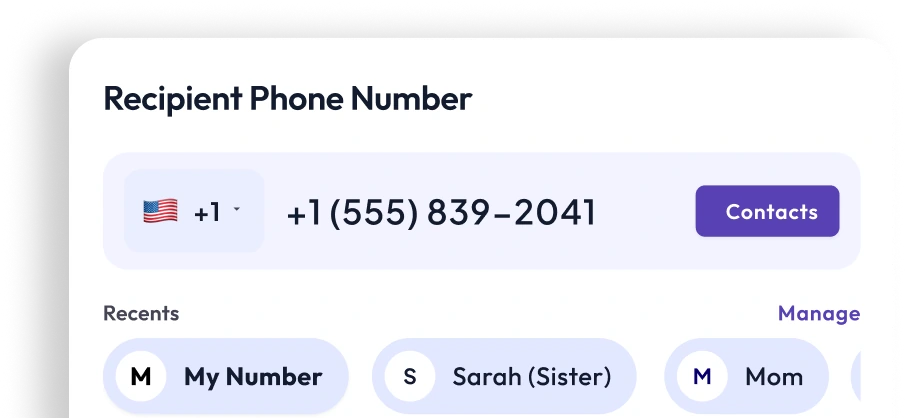
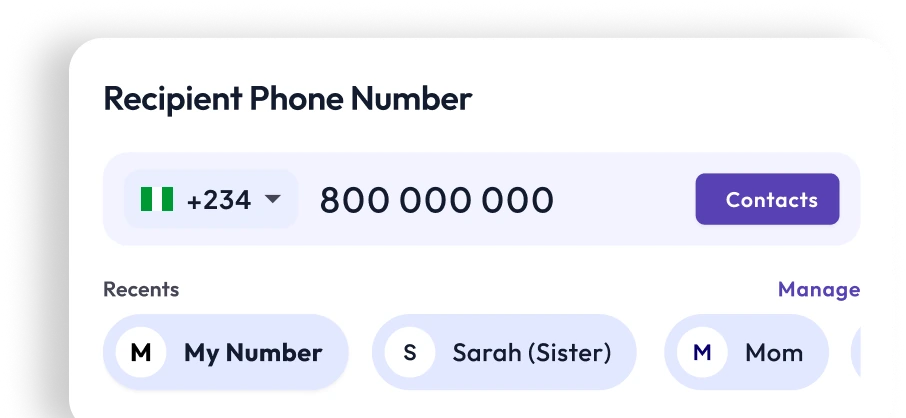
Personal > More corrections: electricity card and bolt, +234 phone inputs, headphones, payment made and wallet balance cards, data tiers (compressed WebP, positions from the corrected designs)

diff --git a/apps/marketing-web/bill-payment.html b/apps/marketing-web/bill-payment.html
@@ -227,9 +227,9 @@
         </header>
         <!-- Artwork slots (.tile__art) are reserved: add the images later without any layout shift -->
         <ul class="tiles tiles--cat">
-          <li class="pcard tile"><div class="pcard__text"><h3>Electricity</h3><p>Explore available electricity bill payment options.</p><a class="pcard__link" href="#">Explore feature <svg class="icon" aria-hidden="true"><use href="#i-arrow-long"/></svg></a></div><div class="tile__art" aria-hidden="true"><img src="assets/Bills/bulb.webp" alt="" class="b-bulb" width="900" height="836" loading="lazy" decoding="async"></div></li>
+          <li class="pcard tile"><div class="pcard__text"><h3>Electricity</h3><p>Explore available electricity bill payment options.</p><a class="pcard__link" href="#">Explore feature <svg class="icon" aria-hidden="true"><use href="#i-arrow-long"/></svg></a></div><div class="tile__art" aria-hidden="true"><img src="assets/Bills/electricity-card.webp" alt="" class="b-elec" width="1200" height="611" loading="lazy" decoding="async"><img src="assets/Bills/bolt.webp" alt="" class="b-bolt" width="338" height="337" loading="lazy" decoding="async"></div></li>
           <li class="pcard tile"><div class="pcard__text"><h3>TV &amp; Entertainment</h3><p><span class="ln">Find supported television and entertainment</span> <span class="ln">payment services.</span></p><a class="pcard__link" href="#">Explore feature <svg class="icon" aria-hidden="true"><use href="#i-arrow-long"/></svg></a></div><div class="tile__art" aria-hidden="true"><img src="assets/Bills/arch.webp" alt="" class="b-arch" width="800" height="410" loading="lazy" decoding="async"><img src="assets/Bills/couple.webp" alt="" class="b-couple" width="940" height="557" loading="lazy" decoding="async"><img src="assets/Bills/cable-success.webp" alt="" class="b-cable" width="765" height="281" loading="lazy" decoding="async"></div></li>
-          <li class="pcard tile"><div class="pcard__text"><h3>Internet &amp; Data</h3><p>Explore available internet and data payment options.</p><a class="pcard__link" href="#">Explore feature <svg class="icon" aria-hidden="true"><use href="#i-arrow-long"/></svg></a></div><div class="tile__art" aria-hidden="true"><img src="assets/Bills/man.webp" alt="" class="b-man" width="800" height="478" loading="lazy" decoding="async"><img src="assets/Bills/phone-input.webp" alt="" class="b-phone" width="906" height="278" loading="lazy" decoding="async"><img src="assets/Bills/data-tiers.webp" alt="" class="b-data" width="645" height="626" loading="lazy" decoding="async"></div></li>
+          <li class="pcard tile"><div class="pcard__text"><h3>Internet &amp; Data</h3><p>Explore available internet and data payment options.</p><a class="pcard__link" href="#">Explore feature <svg class="icon" aria-hidden="true"><use href="#i-arrow-long"/></svg></a></div><div class="tile__art" aria-hidden="true"><img src="assets/Bills/man.webp" alt="" class="b-man" width="800" height="478" loading="lazy" decoding="async"><img src="assets/Bills/phone-input.webp" alt="" class="b-phone" width="906" height="381" loading="lazy" decoding="async"><img src="assets/Bills/data-tiers.webp" alt="" class="b-data" width="645" height="626" loading="lazy" decoding="async"></div></li>
           <li class="pcard tile"><div class="pcard__text"><h3>Other Services</h3><p><span class="ln">Discover additional bill payment services</span> <span class="ln">available to you.</span></p><a class="pcard__link" href="#">Explore feature <svg class="icon" aria-hidden="true"><use href="#i-arrow-long"/></svg></a></div><div class="tile__art" aria-hidden="true"><img src="assets/Bills/school.webp" alt="" class="b-school" width="900" height="564" loading="lazy" decoding="async"></div></li>
         </ul>
       </div>

diff --git a/tools/pages/bill-payment.page.html b/tools/pages/bill-payment.page.html
@@ -30,7 +30,7 @@
         </header>
         <!-- Artwork slots (.tile__art) are reserved: add the images later without any layout shift -->
         <ul class="tiles tiles--cat">
-          <li class="pcard tile"><div class="pcard__text"><h3>Electricity</h3><p>Explore available electricity bill payment options.</p><a class="pcard__link" href="#">Explore feature <svg class="icon" aria-hidden="true"><use href="#i-arrow-long"/></svg></a></div><div class="tile__art" aria-hidden="true">{{img:Bills/bulb class="b-bulb"}}</div></li>
+          <li class="pcard tile"><div class="pcard__text"><h3>Electricity</h3><p>Explore available electricity bill payment options.</p><a class="pcard__link" href="#">Explore feature <svg class="icon" aria-hidden="true"><use href="#i-arrow-long"/></svg></a></div><div class="tile__art" aria-hidden="true">{{img:Bills/electricity-card class="b-elec"}}{{img:Bills/bolt class="b-bolt"}}</div></li>
           <li class="pcard tile"><div class="pcard__text"><h3>TV &amp; Entertainment</h3><p><span class="ln">Find supported television and entertainment</span> <span class="ln">payment services.</span></p><a class="pcard__link" href="#">Explore feature <svg class="icon" aria-hidden="true"><use href="#i-arrow-long"/></svg></a></div><div class="tile__art" aria-hidden="true">{{img:Bills/arch class="b-arch"}}{{img:Bills/couple class="b-couple"}}{{img:Bills/cable-success class="b-cable"}}</div></li>
           <li class="pcard tile"><div class="pcard__text"><h3>Internet &amp; Data</h3><p>Explore available internet and data payment options.</p><a class="pcard__link" href="#">Explore feature <svg class="icon" aria-hidden="true"><use href="#i-arrow-long"/></svg></a></div><div class="tile__art" aria-hidden="true">{{img:Bills/man class="b-man"}}{{img:Bills/phone-input class="b-phone"}}{{img:Bills/data-tiers class="b-data"}}</div></li>
           <li class="pcard tile"><div class="pcard__text"><h3>Other Services</h3><p><span class="ln">Discover additional bill payment services</span> <span class="ln">available to you.</span></p><a class="pcard__link" href="#">Explore feature <svg class="icon" aria-hidden="true"><use href="#i-arrow-long"/></svg></a></div><div class="tile__art" aria-hidden="true">{{img:Bills/school class="b-school"}}</div></li>

diff --git a/apps/marketing-web/pay-with-316.html b/apps/marketing-web/pay-with-316.html
@@ -247,7 +247,7 @@
             <li class="cl__item"><span class="cl__dot" aria-hidden="true"></span><div><h3>Keep track of your payments</h3><p><span class="ln">Review your transaction history and check the</span> <span class="ln">status of your payments.</span></p></div></li>
           </ul>
         </div>
-        <div class="split__media f-media bm-media"><img src="assets/Pay/man.webp" alt="" alt="A man smiling at his phone" class="f-img f-img--round" width="1200" height="954" loading="lazy" decoding="async"><img src="assets/Pay/payment-made.webp" alt="" alt="Payment made, $50.22" class="pm-made" width="904" height="491" loading="lazy" decoding="async"></div>
+        <div class="split__media f-media bm-media"><img src="assets/Pay/man.webp" alt="" alt="A man smiling at his phone" class="f-img f-img--round" width="1200" height="954" loading="lazy" decoding="async"><img src="assets/Pay/wallet-balance.webp" alt="" class="pm-wallet" width="555" height="292" loading="lazy" decoding="async"><img src="assets/Pay/payment-made.webp" alt="" alt="Payment made, $50.22" class="pm-made" width="463" height="251" loading="lazy" decoding="async"></div>
       </div>
     </section>
 

diff --git a/apps/marketing-web/features.css b/apps/marketing-web/features.css
@@ -454,3 +454,17 @@
 .b-water { left: 56%; top: 52%; width: 26%; }
 
 .p-speaker { left: 22%; top: 52%; width: 30.4%; z-index: 2; } /* the speaker card sits on top of the watch and cap cards */
+
+/* ===== Personal > More corrections: positions measured from the corrected designs. Tile artwork is sized in cqw (of the tile
+   width) so its vertical placement stays right whatever height the tile has. ===== */
+.tile__art { container-type: inline-size; }
+.b-elec { left: 1.5%; top: 25cqw; width: 60%; }
+.b-bolt { left: 47%; top: 21cqw; width: 16.5%; }
+.b-phone { left: 45%; bottom: 0; width: 47%; }
+.b-data { right: 7%; top: 26cqw; width: 30%; }
+.at-amount { right: 6%; top: 30cqw; width: 50%; }
+.at-phone { left: 25%; bottom: 0; width: 47%; }
+.p-head { left: 22%; bottom: 8cqw; width: 28%; }
+.p-step { left: 44%; right: auto; bottom: -2cqw; width: 49%; }
+.bm-media .pm-wallet { position: absolute; left: 0.5%; top: 49%; width: 27%; height: auto; max-width: none; }
+.bm-media .pm-made { left: 13.5%; bottom: auto; top: 42%; width: 22%; }

diff --git a/tools/pages/pay-with-316.page.html b/tools/pages/pay-with-316.page.html
@@ -50,7 +50,7 @@
             <li class="cl__item"><span class="cl__dot" aria-hidden="true"></span><div><h3>Keep track of your payments</h3><p><span class="ln">Review your transaction history and check the</span> <span class="ln">status of your payments.</span></p></div></li>
           </ul>
         </div>
-        <div class="split__media f-media bm-media">{{img:Pay/man alt="A man smiling at his phone" class="f-img f-img--round"}}{{img:Pay/payment-made alt="Payment made, $50.22" class="pm-made"}}</div>
+        <div class="split__media f-media bm-media">{{img:Pay/man alt="A man smiling at his phone" class="f-img f-img--round"}}{{img:Pay/wallet-balance class="pm-wallet"}}{{img:Pay/payment-made alt="Payment made, $50.22" class="pm-made"}}</div>
       </div>
     </section>
 
